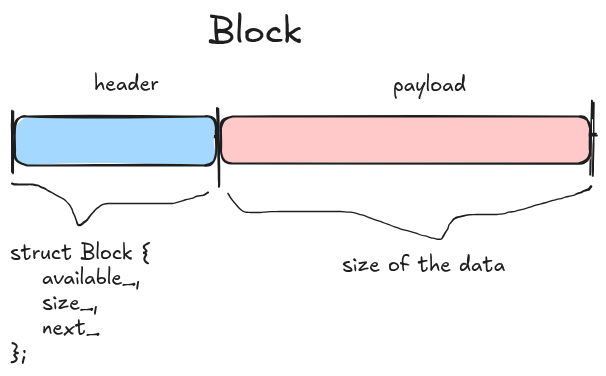
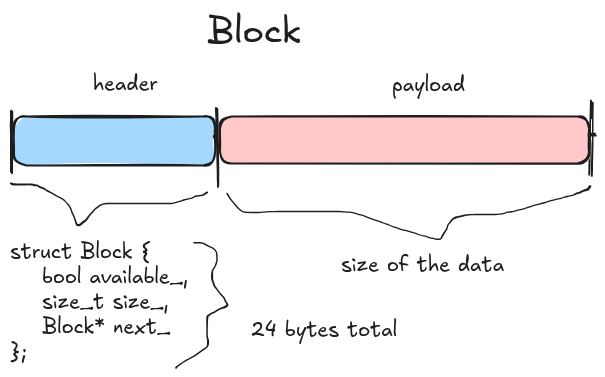
testing subfolder gitignore

diff --git a/cpp-heap-allocator/main.cpp b/cpp-heap-allocator/main.cpp
@@ -9,8 +9,10 @@ constexpr std::size_t HEAP_SIZE{1024 * 1024}; // 1 mb/1048576 bytes
 
 // aligning in memory so that all data types can be aligned properly; starts at
 // a memory address that is a multiple of std::max_align_t
+// this array represents the heap (simulation)
 alignas(std::max_align_t) std::array<std::byte, HEAP_SIZE> heap{};
 
+// 24 bytes
 struct Block {
   bool available_{true}; // brace initialization (c++11)
   size_t size_{};        // size_t is unsigned, ssize_t is signed
@@ -125,7 +127,7 @@ void print_heap() {
 }
 
 int main() {
-  // std::cout << sizeof(Block) << "\n";
+  std::cout << "sizeof(Block): " << sizeof(Block) << "\n";
   print_heap();
   void *ptr1{allocate(10)};
   void *ptr2{allocate(20)};

diff --git a/cpp-heap-allocator/excalidraw/Drawing 2026-06-03 14.35.40.excalidraw.md b/cpp-heap-allocator/excalidraw/Drawing 2026-06-03 14.35.40.excalidraw.md
@@ -13,9 +13,9 @@ tags: [excalidraw]
 Block ^6wr9LGGb
 
 struct Block {
-    available_,
-    size_,
-    next_
+    bool available_,
+    size_t size_,
+    Block* next_
 }; ^XaAcPYuD
 
 size of the data ^5qaHyldV
@@ -24,6 +24,8 @@ header ^iRFtSnap
 
 payload ^Kdm9qbB1
 
+24 bytes total ^tQxy1AdF
+
 %%
 ## Drawing
 ```compressed-json
@@ -31,68 +33,72 @@ N4KAkARALgngDgUwgLgAQQQDwMYEMA2AlgCYBOuA7hADTgQBuCpAzoQPYB2KqATLZMzYBXUtiRoIACyh
 
[1 lines of base64/hex data omitted]
 
[2 lines of base64/hex data omitted]
 
[2 lines of base64/hex data omitted]
 
[2 lines of base64/hex data omitted]
 
[2 lines of base64/hex data omitted]
 
[2 lines of base64/hex data omitted]
 
[2 lines of base64/hex data omitted]
 
[2 lines of base64/hex data omitted]
 
[2 lines of base64/hex data omitted]
 
[2 lines of base64/hex data omitted]
 
[2 lines of base64/hex data omitted]
 
[2 lines of base64/hex data omitted]
 
[2 lines of base64/hex data omitted]
 
[2 lines of base64/hex data omitted]
 
[2 lines of base64/hex data omitted]
 
[2 lines of base64/hex data omitted]
 
[2 lines of base64/hex data omitted]
 
[2 lines of base64/hex data omitted]
 
[2 lines of base64/hex data omitted]
 
[2 lines of base64/hex data omitted]
 
[2 lines of base64/hex data omitted]
 
[2 lines of base64/hex data omitted]
 
[2 lines of base64/hex data omitted]
 
[2 lines of base64/hex data omitted]
 
[2 lines of base64/hex data omitted]
 
[2 lines of base64/hex data omitted]
 
[2 lines of base64/hex data omitted]
 
[2 lines of base64/hex data omitted]
 
[2 lines of base64/hex data omitted]
 
[2 lines of base64/hex data omitted]
 
[2 lines of base64/hex data omitted]
 
[2 lines of base64/hex data omitted]
 
[2 lines of base64/hex data omitted]
+
[1 lines of base64/hex data omitted]
+
[1 lines of base64/hex data omitted]
 ```
 %%

diff --git a/cpp-heap-allocator/README.md b/cpp-heap-allocator/README.md
@@ -1,10 +1,16 @@
 # Custom C++ Heap Allocator
 
-mimics how malloc would work
-
-inspired by [salar's video](https://www.youtube.com/watch?v=H8vCBFX62Qg)
+- inspired by [salar's video](https://www.youtube.com/watch?v=H8vCBFX62Qg)
 
 ![split_available_block().png](./excalidraw/split_available_block().png)
 
 ![block.png](./excalidraw/block.png)
 
+- we can see that the size of `struct Block` is 24 bytes
+- this would not change regardless of how we order the members because of the way padding works
+
+```bash
+cmake -B build
+cmake --build build
+./build/heap
+```
